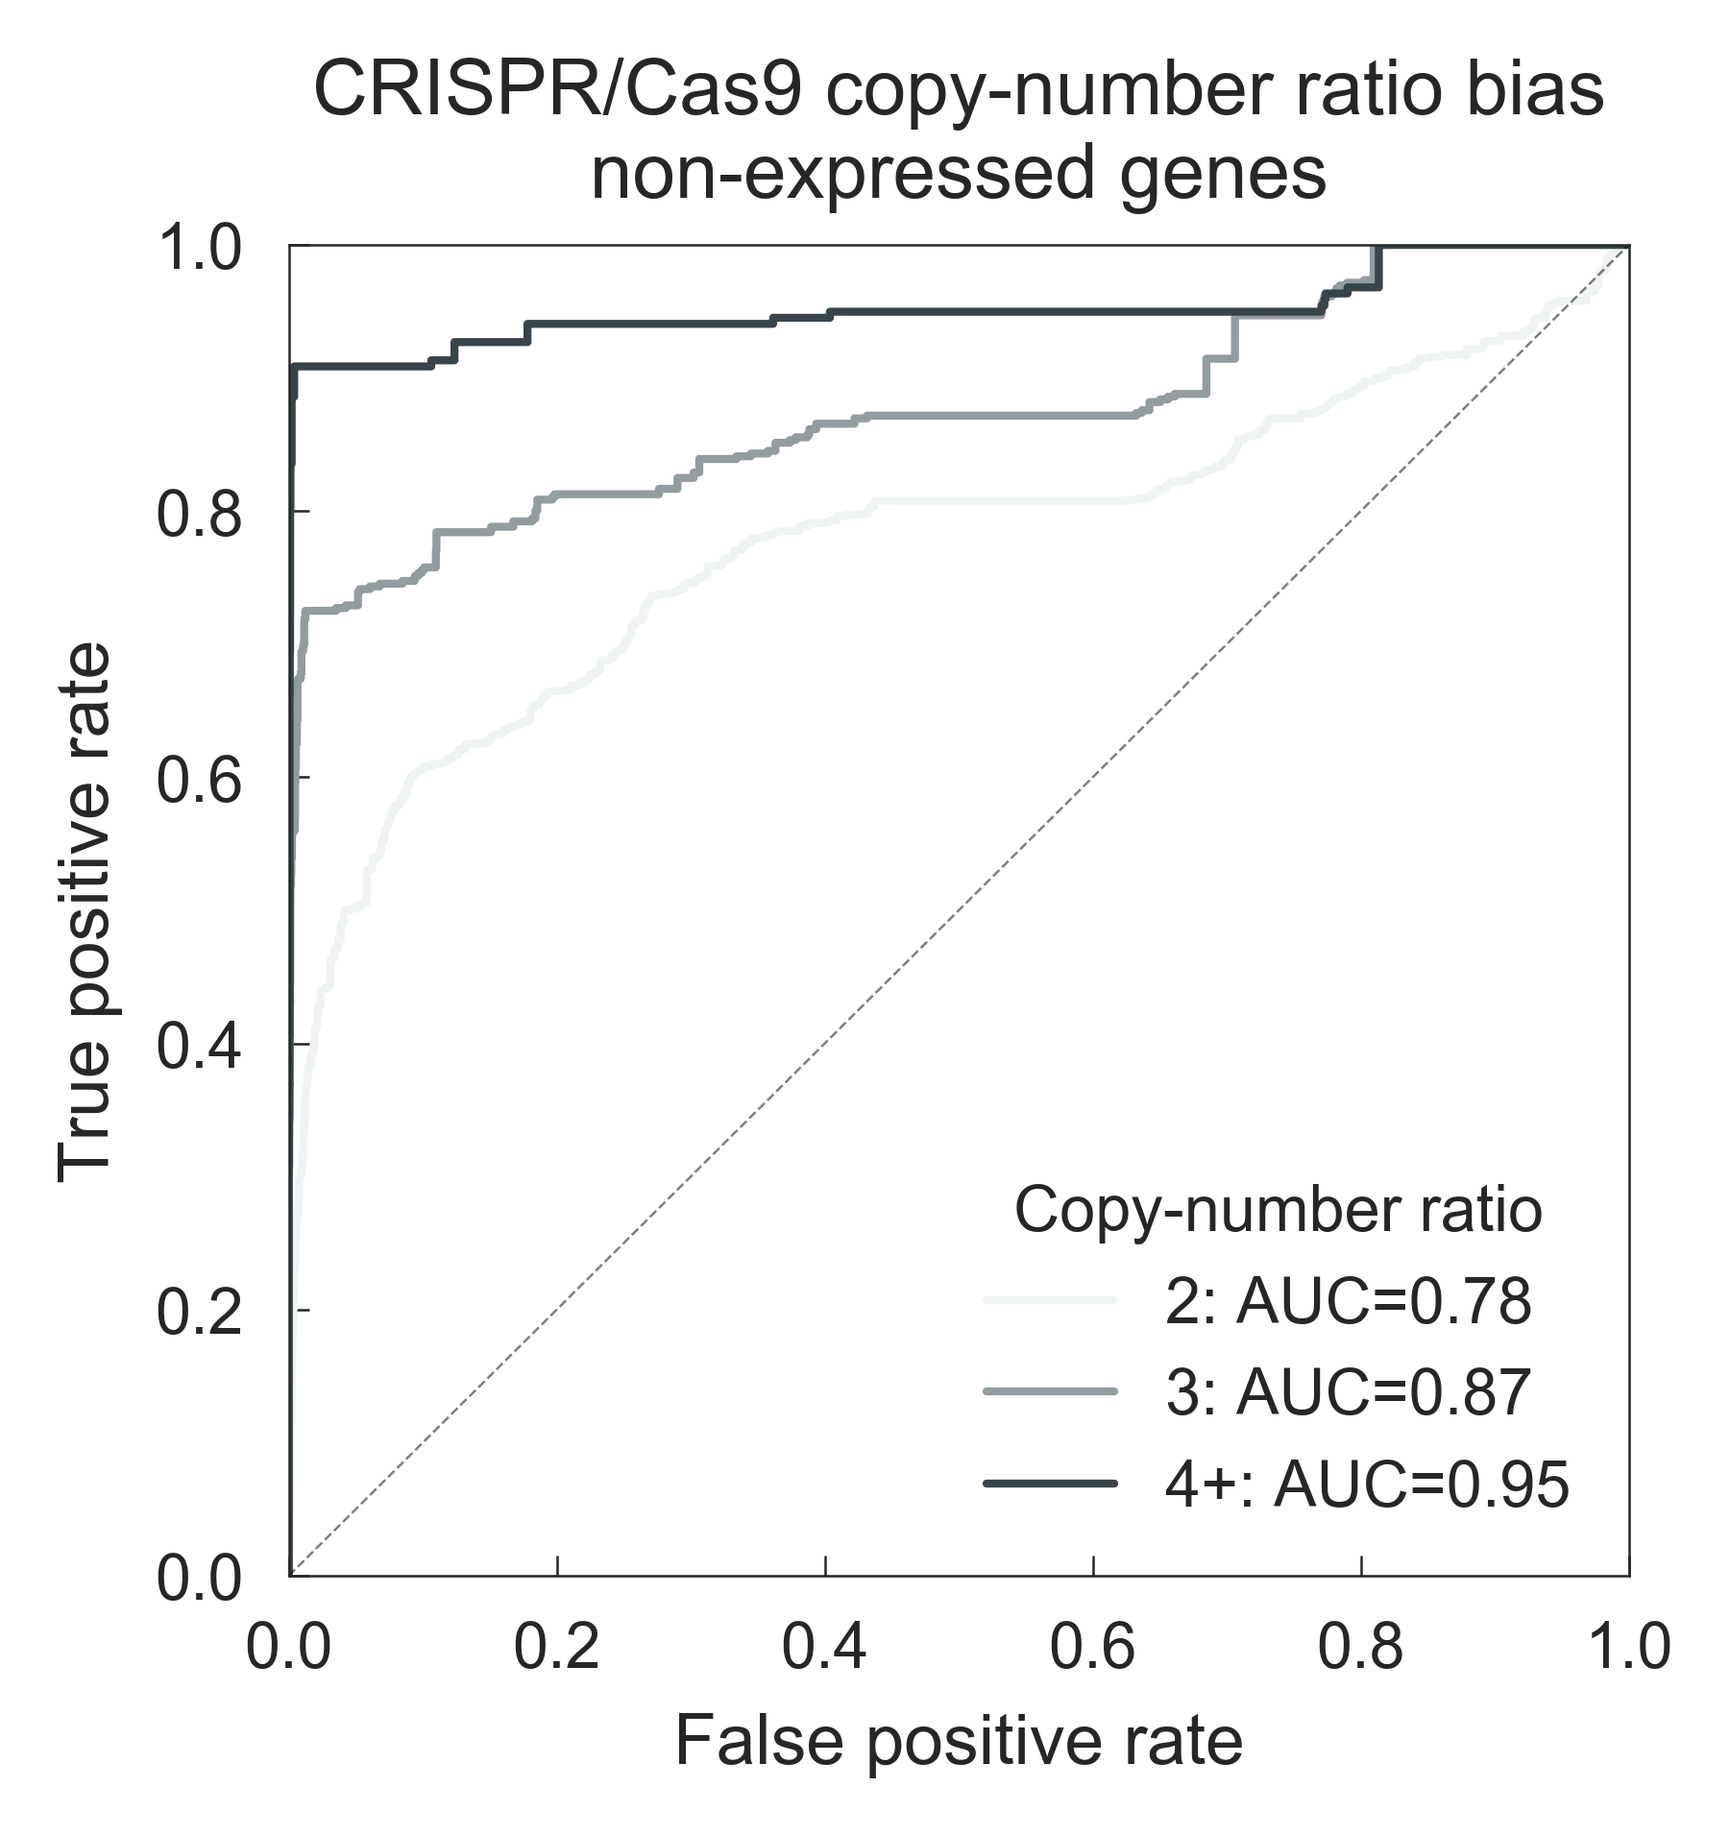
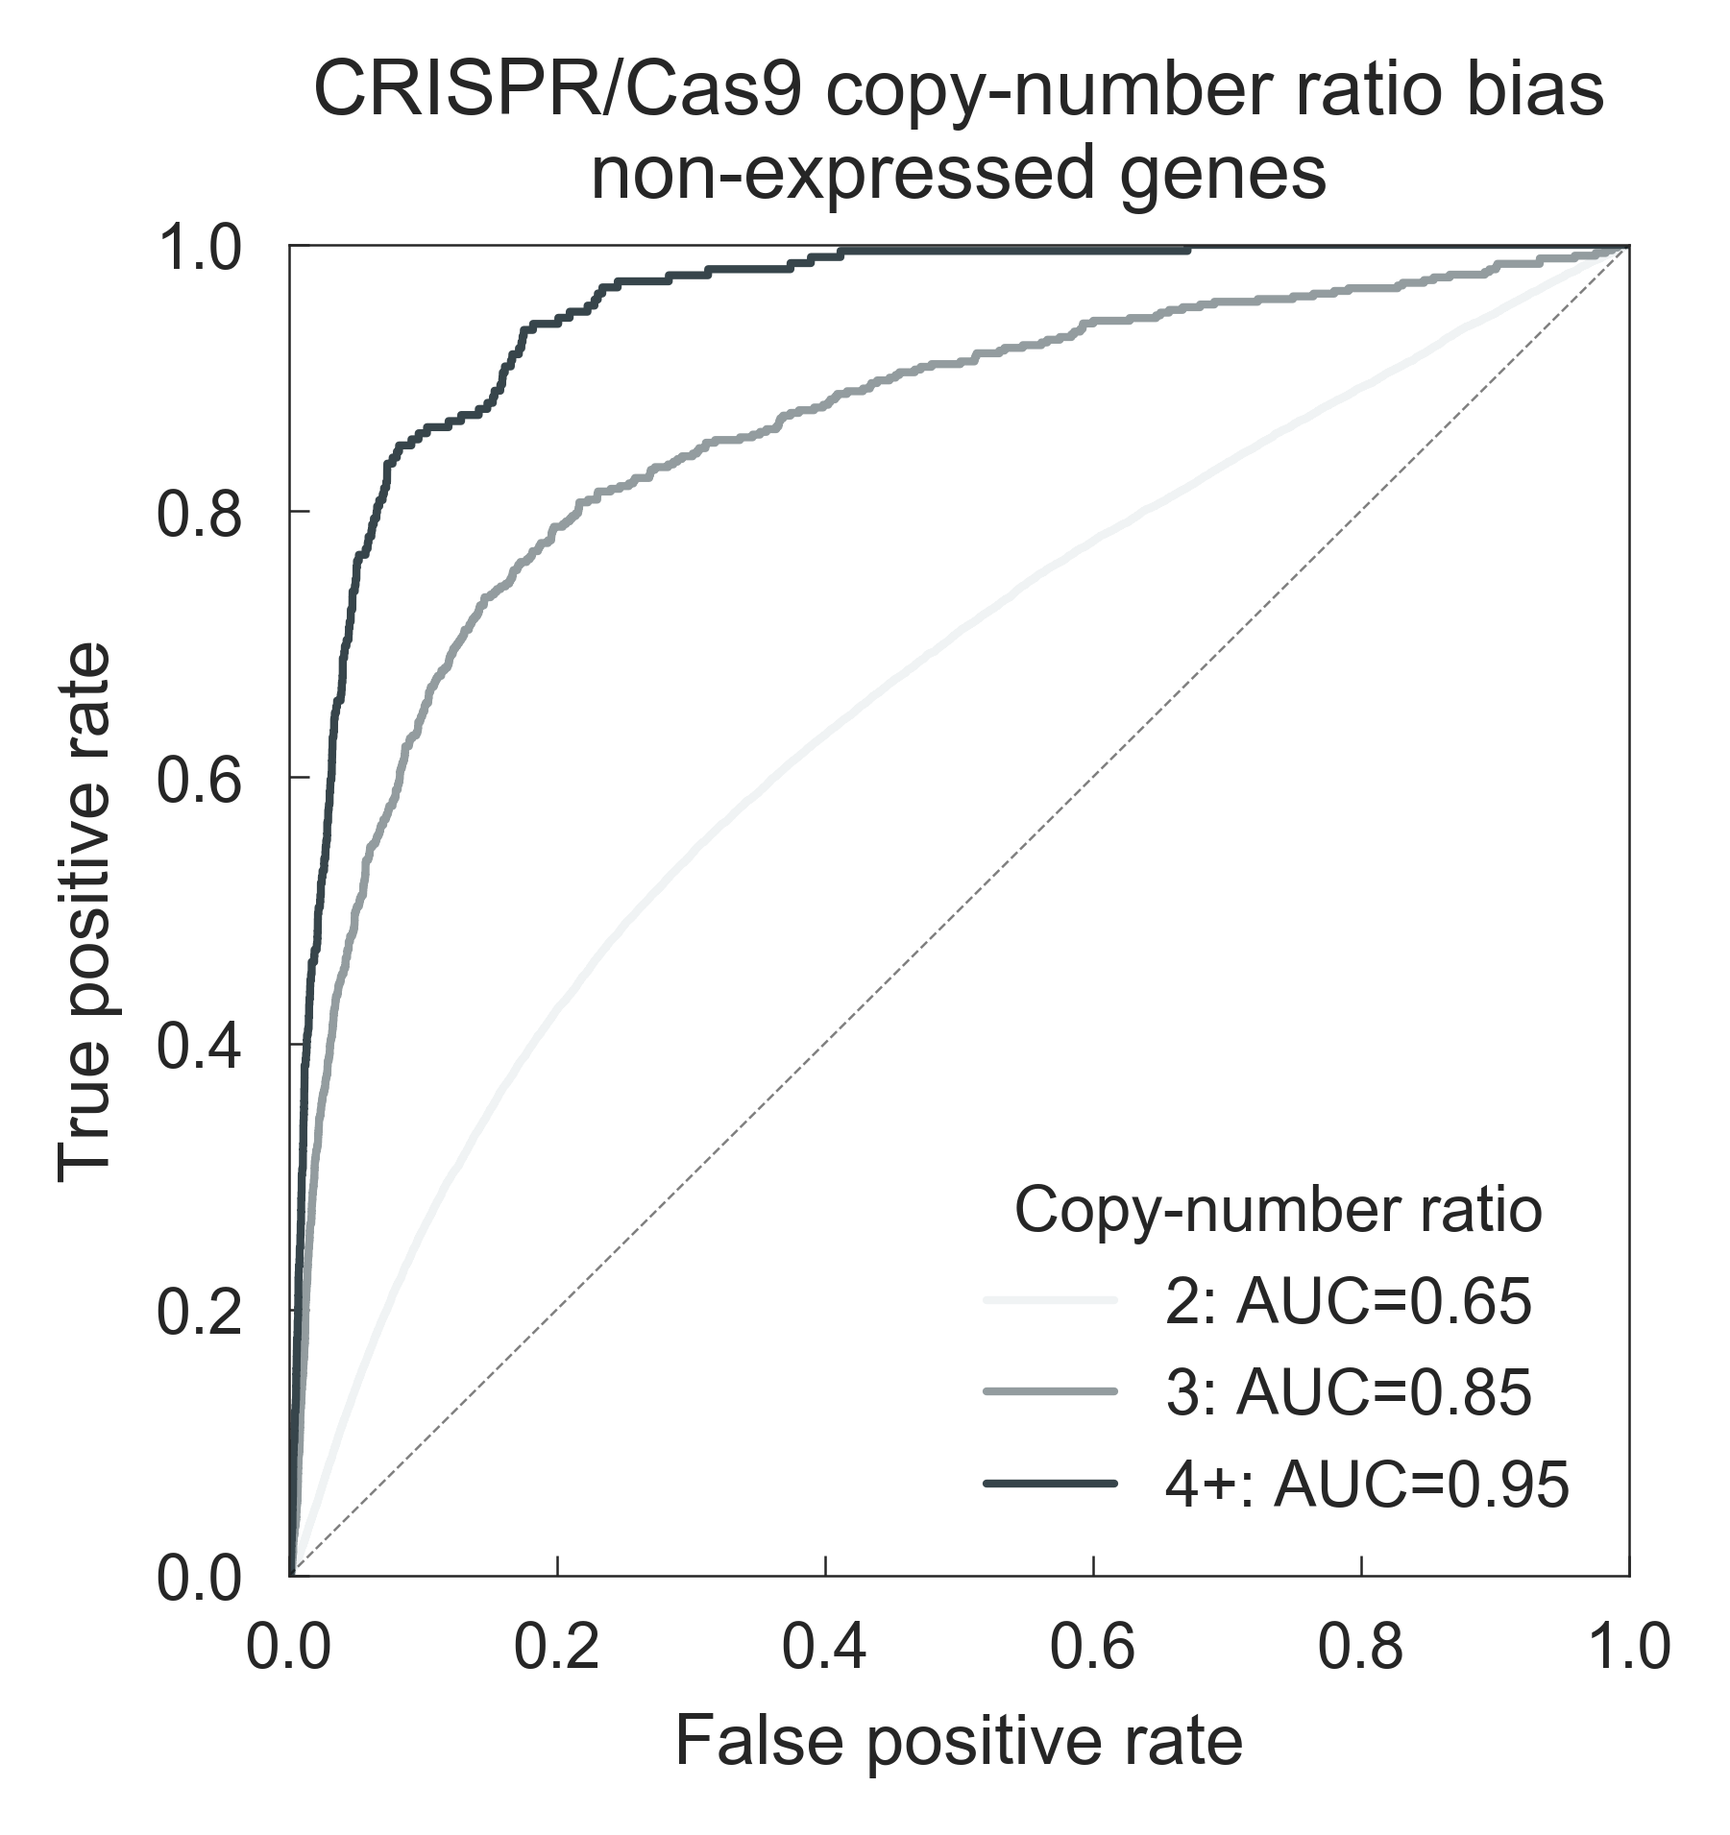
colateral essentialities analysis filters updated

diff --git a/scripts/crispy/plotting/collateral_essentiality.py b/scripts/crispy/plotting/collateral_essentiality.py
@@ -8,11 +8,112 @@ import seaborn as sns
 import matplotlib.pyplot as plt
 from crispy import bipal_dbgd
 from natsort import natsorted
+from crispy.utils import bin_cnv
 from crispy.regression.linear import lr
 from statsmodels.stats.multitest import multipletests
 
 
-def main():
+def recurrent_amplified_genes(cnv, cnv_ratios, ploidy, genelist, min_events=3):
+    g_amp = pd.DataFrame({s: (cnv[s] > 8 if ploidy[s] > 2.7 else cnv[s] > 4).astype(int) for s in cnv})
+    g_amp = g_amp.loc[g_amp.index.isin(cnv_ratios.index) & g_amp.index.isin(genelist)]
+    g_amp = g_amp[g_amp.sum(1) >= min_events]
+    return list(g_amp.index)
+
+
+def recurrent_non_expressed_genes(nexp, min_events=3.):
+    g_nexp = nexp[nexp.sum(1) >= min_events]
+    return list(g_nexp.index)
+
+
+def filter_low_var_essential(crispr_fc, abs_thres=2, min_events=3):
+    genes_thres = (crispr_fc.abs() > abs_thres).sum(1)
+    genes_thres = genes_thres[genes_thres >= min_events]
+    return list(genes_thres.index)
+
+
+def lr_ess(xs, ys, non_expressed):
+    # Run fit
+    lm = lr(xs, ys)
+
+    # Export lm results
+    lm_res = pd.concat([lm[i].unstack().rename(i) for i in lm], axis=1)
+    lm_res = lm_res.reset_index().rename(columns={'gene': 'gene_crispr', 'level_1': 'gene_ratios'})
+
+    # Discard same gene associations
+    lm_res = lm_res[lm_res['gene_crispr'] != lm_res['gene_ratios']]
+
+    # Count genes that display high copy-number ratios and are not expressed for associations
+    ratio_nexp_ov = (xs > 1.5).T.dot(non_expressed.loc[ys.columns, xs.index].T)
+    lm_res = lm_res.assign(overlap=[ratio_nexp_ov.loc[x, y] for x, y in lm_res[['gene_ratios', 'gene_crispr']].values])
+
+    # FDR
+    lm_res = lm_res.assign(f_fdr=multipletests(lm_res['f_pval'], method='fdr_bh')[1]).sort_values('f_fdr')
+
+    return lm_res
+
+
+def association_boxplot(idx, lm_res, c_gdsc_fc, cnv, cnv_ratios, nexp, cnv_bin_thres=10, ratio_bin_thres=4):
+    y_feat, x_feat = lm_res.loc[idx, 'gene_crispr'], lm_res.loc[idx, 'gene_ratios']
+
+    plot_df = pd.concat([
+        c_gdsc_fc.loc[y_feat, samples].rename('crispy'),
+        cnv.loc[x_feat, samples].rename('cnv'),
+        cnv_ratios.loc[x_feat, samples].rename('ratio'),
+        nexp.loc[y_feat].replace({1.0: 'No', 0.0: 'Yes'}).rename('Expressed')
+    ], axis=1).dropna().sort_values('crispy')
+
+    # Bin copy-number profiles
+    plot_df = plot_df.assign(ratio_bin=plot_df['ratio'].apply(lambda v: bin_cnv(v, ratio_bin_thres)).values)
+    plot_df = plot_df.assign(cnv_bin=plot_df['cnv'].apply(lambda v: bin_cnv(v, cnv_bin_thres)).values)
+
+    # Palettes
+    color = sns.light_palette(bipal_dbgd[0])[2]
+    pal = {'No': bipal_dbgd[1], 'Yes': bipal_dbgd[0]}
+
+    # Plot
+    f, (ax1, ax2) = plt.subplots(1, 2, sharex=False, sharey=True)
+
+    # Copy-number boxplot
+    cnvorder = natsorted(set(plot_df['cnv_bin']))
+
+    sns.boxplot('cnv_bin', 'crispy', data=plot_df, order=cnvorder, color=color, sym='', linewidth=.3, saturation=.1, ax=ax1)
+    sns.stripplot('cnv_bin', 'crispy', 'Expressed', data=plot_df, order=cnvorder, palette=pal, edgecolor='white', linewidth=.1, size=2, jitter=.1, alpha=.8, ax=ax1)
+
+    ax1.axhline(0, ls='-', lw=.1, c=color)
+
+    ax1.set_ylabel('%s\nCRISPR/Cas9 fold-change (log2)' % y_feat)
+    ax1.set_xlabel('%s\nCopy-number' % x_feat)
+
+    # Ratio boxplot
+    order = natsorted(set(plot_df['ratio_bin']))
+
+    sns.boxplot('ratio_bin', 'crispy', data=plot_df, order=order, color=color, sym='', linewidth=.3, saturation=.1, ax=ax2)
+    sns.stripplot('ratio_bin', 'crispy', 'Expressed', data=plot_df, order=order, palette=pal, edgecolor='white', linewidth=.1, size=2, jitter=.1, alpha=.8, ax=ax2)
+
+    ax2.axhline(0, ls='-', lw=.1, c=color)
+
+    ax2.set_xlabel('%s\nCopy-number ratio' % x_feat)
+    ax2.set_ylabel('')
+
+    # Labels
+    plt.suptitle('Collateral essentiality {0} - {1}\nbeta={2:.1f}; FDR={3:1.2e}'.format(y_feat, x_feat, lm_res.loc[idx, 'beta'], lm_res.loc[idx, 'f_fdr']), y=1.02)
+
+    return y_feat, x_feat
+
+
+# def plot_count_associations():
+#     plt.barh(plot_df['ypos'], plot_df['count'], .8, color=bipal_dbgd[0], align='center')
+#
+#     for x, y in plot_df[['ypos', 'count']].values:
+#         plt.text(y - .5, x, str(y), color='white', ha='right' if y != 1 else 'center', va='center', fontsize=10)
+#
+#     plt.yticks(plot_df['ypos'])
+#     plt.yticks(plot_df['ypos'], plot_df['type'])
+#
+#     plt.xlabel('# significant associations (FDR < 5% and B < -0.5)')
+
+
+if __name__ == '__main__':
     # - Import
     # Samplesheet
     ss = pd.read_csv('data/gdsc/samplesheet.csv', index_col=0)
@@ -24,93 +125,41 @@ def main():
     # Copy-number
     cnv = pd.read_csv('data/crispy_copy_number_gene_snp.csv', index_col=0)
 
-    # Ploidy
-    ploidy = pd.read_csv('data/crispy_copy_number_ploidy_snp.csv', index_col=0, names=['sample', 'ploidy'])['ploidy']
-
     # Copy-number ratios
     cnv_ratios = pd.read_csv('data/crispy_copy_number_gene_ratio_snp.csv', index_col=0)
 
+    # Ploidy
+    ploidy = pd.read_csv('data/crispy_copy_number_ploidy_snp.csv', index_col=0, names=['sample', 'ploidy'])['ploidy']
+
     # CRISPR
     c_gdsc_fc = pd.read_csv('data/crispr_gdsc_logfc.csv', index_col=0)
-    c_gdsc_crispy = pd.read_csv('data/crispr_gdsc_logfc_corrected.csv', index_col=0)
 
     # Cancer gene census list
     cgenes = pd.read_csv('data/gene_sets/Census_allThu Dec 21 15_43_09 2017.tsv', sep='\t')
 
     # - Overlap samples
-    samples = list(set(cnv).intersection(c_gdsc_fc).intersection(c_gdsc_crispy).intersection(nexp))
+    samples = list(set(cnv).intersection(c_gdsc_fc).intersection(nexp).intersection(ploidy.index))
     print('[INFO] Samples overlap: {}'.format(len(samples)))
 
-    # - Recurrent amplified genes
-    g_amp = pd.DataFrame({s: (cnv[s] > 8 if ploidy[s] > 2.7 else cnv[s] > 4).astype(int) for s in samples})
-    g_amp = g_amp.loc[g_amp.index.isin(cnv_ratios.index) & g_amp.index.isin(cgenes['Gene Symbol'])]
-    g_amp = g_amp[g_amp.sum(1) >= 3]
+    # - Recurrent amplified cancer genes (following COSMIC definition)
+    g_amp = recurrent_amplified_genes(cnv[samples], cnv_ratios[samples], ploidy[samples], genelist=cgenes['Gene Symbol'])
 
-    # - Recurrent non-expressed genes
-    g_nexp = nexp.loc[c_gdsc_fc.index, samples].dropna()
-    g_nexp = g_nexp[g_nexp.sum(1) >= (g_nexp.shape[1] * .5)]
+    # - Recurrent non-expressed genes (Genes not expressed in at least 50% of the samples)
+    g_nexp = recurrent_non_expressed_genes(nexp.reindex(c_gdsc_fc.index)[samples].dropna(), min_events=(len(samples) * .5))
+
+    # - Filter-out genes with low CRISPR var
+    g_nexp_var = filter_low_var_essential(c_gdsc_fc.loc[g_nexp, samples])
 
     # - Linear regressions
-    # Build matrices
-    xs = cnv_ratios.loc[g_amp.index, samples].T
-    xs = xs.loc[:, (xs > 2).sum() >= 3]
-    xs = xs.replace(np.nan, 1)
-
-    ys = c_gdsc_fc.loc[g_nexp.index, xs.index]
-    ys = ys.subtract(ys.mean()).divide(ys.std())
-    ys = ys[(ys.abs() >= 1.5).sum(1) >= 5].T
-
-    # Run fit
-    lm = lr(xs, ys)
-
-    # Export lm results
-    lm_res = pd.concat([lm[i].unstack().rename(i) for i in lm], axis=1)
-    lm_res = lm_res.reset_index().rename(columns={'gene': 'gene_crispr', 'level_1': 'gene_ratios'})
-
-    lm_res = lm_res[lm_res['gene_crispr'] != lm_res['gene_ratios']]
-
-    ratio_nexp_ov = (cnv_ratios.loc[xs.columns, samples] > 1.5).astype(int).dot((nexp.loc[ys.columns, samples] == 0).astype(int).T).unstack()
-    lm_res = lm_res.loc[(ratio_nexp_ov.loc[[(y, x) for y, x in lm_res[['gene_crispr', 'gene_ratios']].values]] == 0).values]
-
-    lm_res = lm_res.assign(f_fdr=multipletests(lm_res['f_pval'], method='fdr_bh')[1]).sort_values('f_fdr')
-
+    lm_res = lr_ess(cnv_ratios.loc[g_amp, samples].T, c_gdsc_fc.loc[g_nexp_var, samples].T, nexp)
     lm_res.query('f_fdr < 0.05').to_csv('data/crispy_df_collateral_essentialities.csv', index=False)
-    print(lm_res)
+    print(lm_res.query('f_fdr < 0.05 & beta < -.5'))
 
-    # - Plot: Collateral essentiality
-    idx = 24518
-    y_feat, x_feat = lm_res.loc[idx, 'gene_crispr'], lm_res.loc[idx, 'gene_ratios']
-
-    plot_df = pd.concat([
-        c_gdsc_fc.loc[y_feat, samples].rename('crispy'),
-        cnv.loc[x_feat, samples].rename('cnv'),
-        cnv_ratios.loc[x_feat, samples].rename('ratio'),
-        g_amp.loc[x_feat].rename('amp'),
-        nexp.loc[y_feat].replace({1.0: 'No', 0.0: 'Yes'}).rename('expressed'),
-        ss['Cancer Type'],
-    ], axis=1).dropna().sort_values('crispy')
-    plot_df = plot_df.assign(ratio_bin=[str(i) if i < 4 else '4+' for i in plot_df['ratio'].round(0).astype(int)])
-
-    order = natsorted(set(plot_df['ratio_bin']))
-    pal = {'No': bipal_dbgd[1], 'Yes': bipal_dbgd[0]}
-
-    # Boxplot
-    sns.boxplot('ratio_bin', 'crispy', data=plot_df, order=order, color=bipal_dbgd[0], sym='', linewidth=.3, saturation=.1)
-    sns.stripplot('ratio_bin', 'crispy', 'expressed', data=plot_df, order=order, palette=pal, edgecolor='white', linewidth=.1, size=2, jitter=.1, alpha=.8)
-
-    plt.axhline(0, ls='-', lw=.1, c=bipal_dbgd[0])
-
-    plt.ylabel('%s\nCRISPR/Cas9 cop-number bias' % y_feat)
-    plt.xlabel('%s\nCopy-number ratio' % x_feat)
-    plt.title('Collateral essentiality\nbeta={0:.1f}; q-value={0:1.2e}'.format(lm_res.loc[idx, 'beta'], lm_res.loc[idx, 'f_fdr']))
-
-    legend = plt.legend(title='Expressed', prop={'size': 8}, loc=3)
-    legend.get_title().set_fontsize('8')
-
-    plt.gcf().set_size_inches(2, 3)
-    plt.savefig('reports/crispy/collateral_essentiality_boxplot.png', bbox_inches='tight', dpi=600)
+    # - Plot
+    crispr_gene, ratio_gene = association_boxplot(3314, lm_res, c_gdsc_fc, cnv, cnv_ratios, nexp)
+    plt.gcf().set_size_inches(4, 3)
+    plt.savefig('reports/crispy/collateral_essentiality_boxplot_{}_{}.png'.format(crispr_gene, ratio_gene), bbox_inches='tight', dpi=600)
     plt.close('all')
 
-
-if __name__ == '__main__':
-    main()
+    # - Plot
+    # plot_count_associations(lm_res.query('f_fdr < 0.05 & beta < -.5')['gene_ratios'].value_counts())

diff --git a/scripts/crispy/plotting/copy_number_ratios.py b/scripts/crispy/plotting/copy_number_ratios.py
@@ -60,8 +60,8 @@ def ratios_kmean(x, y, data, outfile):
     sns.boxplot(x, y, data=data, orient='h', linewidth=.3, fliersize=1, order=order, palette=pal, notch=True)
     plt.axvline(0, lw=.1, ls='-', c=bipal_dbgd[0])
 
-    plt.title('Gene copy-number ratio\neffect on CRISPR/Cas9 bias')
-    plt.xlabel('CRISPR/Cas9 fold-change bias (log2)')
+    plt.title('Copy-number ratio effect on CRISPR/Cas9\nnon-expressed genes')
+    plt.xlabel('CRISPR/Cas9 fold-change (log2)')
     plt.ylabel('Copy-number ratio')
     plt.gcf().set_size_inches(2, 2)
     plt.savefig(outfile, bbox_inches='tight', dpi=600)
@@ -111,22 +111,6 @@ def ratios_heatmap(x, y, z, data, outfile, z_bin='1'):
     plt.close('all')
 
 
-def copynumber_kmean_corr(x1, x2, data, outfile):
-    # Histogram
-
-    sns.distplot(data[x1], label=x1, color=bipal_dbgd[0], kde_kws={'lw': 1.})
-    sns.distplot(data[x2], label=x2, color=bipal_dbgd[1], kde_kws={'lw': 1.})
-
-    plt.title('Copy-number correlation with CRISPR bias')
-    plt.xlabel("Pearson's r")
-    plt.ylabel('Density')
-    plt.legend(loc='upper left')
-
-    plt.gcf().set_size_inches(3, 2)
-    plt.savefig(outfile, bbox_inches='tight', dpi=600)
-    plt.close('all')
-
-
 def main():
     # - Import
     # CRISPR library
@@ -146,15 +130,15 @@ def main():
 
     # CRISPR
     c_gdsc_fc = pd.read_csv('data/crispr_gdsc_logfc.csv', index_col=0)
-    c_gdsc_crispy_kmean = assemble_matrix('data/crispy/gdsc/', 'k_mean')
+    # c_gdsc_crispy_kmean = assemble_matrix('data/crispy/gdsc/', 'k_mean')
 
     # - Overlap samples
-    samples = list(set(cnv).intersection(c_gdsc_fc).intersection(c_gdsc_crispy_kmean).intersection(nexp))
+    samples = list(set(cnv).intersection(c_gdsc_fc).intersection(c_gdsc_fc).intersection(nexp))
     print('[INFO] Samples overlap: {}'.format(len(samples)))
 
     # - Assemble data-frame of non-expressed genes
     # Non-expressed genes CRISPR bias from copy-number
-    df = pd.DataFrame({c: c_gdsc_crispy_kmean.reindex(nexp[c])[c] for c in samples})
+    df = pd.DataFrame({c: c_gdsc_fc.reindex(nexp[c])[c] for c in samples})
 
     # Concat copy-number information
     df = pd.concat([df[samples].unstack().rename('crispy'), cnv[samples].unstack().rename('cnv'), cnv_ratios[samples].unstack().rename('ratio')], axis=1).dropna()
@@ -174,16 +158,6 @@ def main():
     ratios_kmean('crispy', 'ratio_bin', df, 'reports/crispy/copynumber_ratio_kmean_boxplot.png')
     ratios_arocs('ratio_bin', 'crispy', df, 'reports/crispy/copynumber_ratio_kmean_arocs.png', exclude_labels={'0', '1'})
     ratios_heatmap('cnv_bin', 'chr_cnv_bin', 'ratio_bin', df, 'reports/crispy/copynumber_ratio_heatmap.png', z_bin='1')
-
-    # - Plot: CRISPR bias correlation with copy-number and ratios
-    genes = list(set(c_gdsc_fc[samples].dropna(how='all').index).intersection(cnv[samples].dropna(how='all').index).intersection(cnv_ratios[samples].dropna(how='all').index))
-
-    plot_df = pd.concat([
-        c_gdsc_fc.loc[genes, samples].T.corrwith(cnv.loc[genes, samples].T).rename('Copy-number'),
-        c_gdsc_fc.loc[genes, samples].T.corrwith(cnv_ratios.loc[genes, samples].T).rename('Ratio'),
-    ], axis=1)
-
-    copynumber_kmean_corr('Copy-number', 'Ratio', plot_df, 'reports/crispy/copynumber_ratio_corr_histogram.png')
 
 
 if __name__ == '__main__':

diff --git a/scripts/crispy/plotting/svs_qc_assessment.py b/scripts/crispy/plotting/svs_qc_assessment.py
@@ -34,7 +34,8 @@ if __name__ == '__main__':
         }
 
     # -
-    diff_var_exp = pd.DataFrame({c: svs_crispy[c]['copynumber']['var_exp'] - svs_crispy[c]['sv']['var_exp'] for c in svs_crispy})
+    varexp = pd.DataFrame({c: svs_crispy[c]['sv'].groupby('chr')['var_exp'].first() for c in svs_crispy}).unstack().sort_values(ascending=False).dropna()
+    varexp = varexp.reset_index().rename(columns={'level_0': 'sample', 0: 'varexp'})
 
     # -
     sample, chrm, = 'HCC1937', 'chr18'
@@ -62,5 +63,5 @@ if __name__ == '__main__':
 
             #
             plt.gcf().set_size_inches(8, 3)
-            plt.savefig('reports/crispy/svplots/svplot_{}_{}.pdf'.format(sample, chrm), bbox_inches='tight')
+            plt.savefig('reports/crispy/svplot_{}_{}.pdf'.format(sample, chrm), bbox_inches='tight')
             plt.close('all')

diff --git a/scripts/crispy/processing/correct_svs_bias.py b/scripts/crispy/processing/correct_svs_bias.py
@@ -74,6 +74,13 @@ if __name__ == '__main__':
         crispy_cnv_only = pd.concat([v.to_dataframe() for k, v in crispy_cnv_only.items()])
         crispy_cnv_only.to_csv('data/crispy/gdsc_brass/{}.copynumber.csv'.format(sample))
 
+        # Correction only with TD
+        crispy_td_only = CRISPRCorrection().rename(sample).fit_by(
+            by=svmatrix['chr'], X=svmatrix[['tandemduplication']], y=svmatrix['crispr']
+        )
+        crispy_td_only = pd.concat([v.to_dataframe() for k, v in crispy_td_only.items()])
+        crispy_td_only.to_csv('data/crispy/gdsc_brass/{}.td.csv'.format(sample))
+
         # Correction only with SV features
         crispy_svs_only = CRISPRCorrection().rename(sample).fit_by(
             by=svmatrix['chr'], X=svmatrix.drop(['chr', 'crispr', 'cnv'], axis=1), y=svmatrix['crispr']
